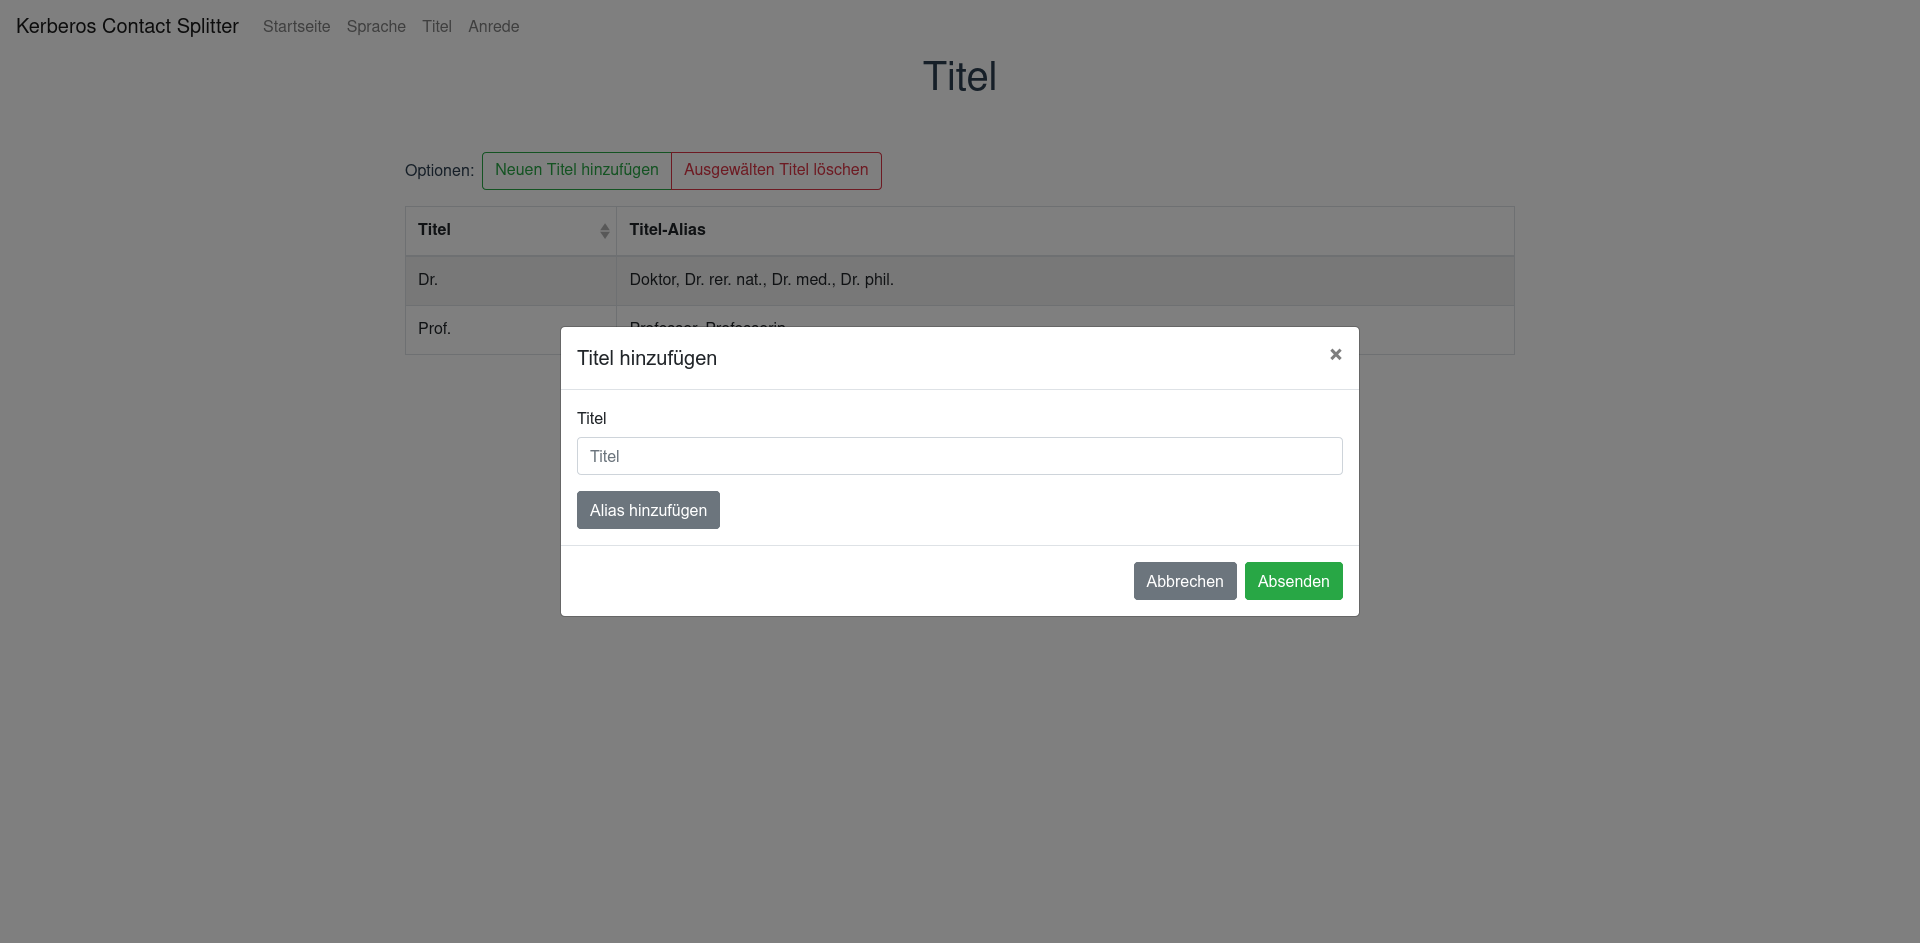
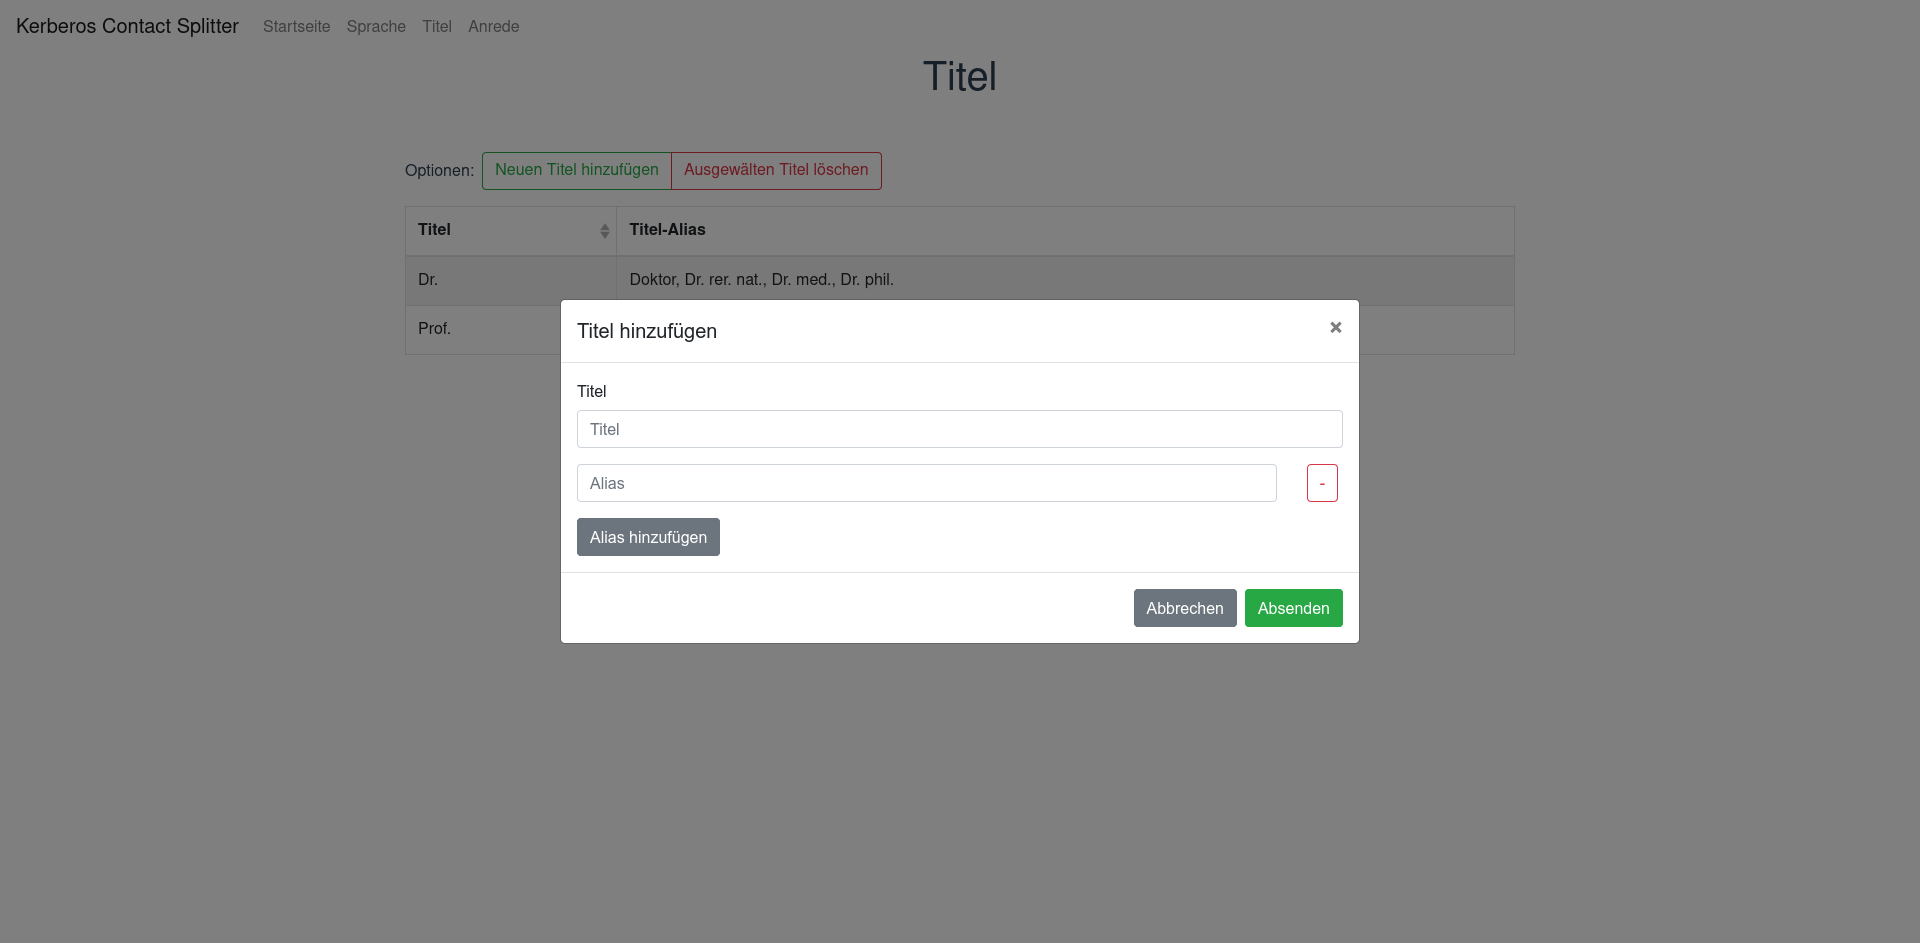
imporove doc/ReleaseNotes

Changed region(s): [[0.2812, 0.5843, 0.7188, 0.7073], [0.2812, 0.3075, 0.7188, 0.3998], [0.2812, 0.4305, 0.375, 0.6151]]

diff --git a/docs/ReleaseNotes.md b/docs/ReleaseNotes.md
@@ -35,7 +35,8 @@ Der\*die Nutzer\*in kann jeder Zeit einen Titel hinzufügen, der erkannt werden 
 
 ![Titelübersicht im Kerberos Client](./image/KerberosClient3_1.png)
 
-Über den Button `Neuen Titel hinzufügen` kann ein neuer Titel hinzugefügt werden. Hierbei kann ein `Titel` vergeben werden, dem eine beliebige Anzahl an `Aliases` (z.B. eine Abkürzung) hinzugefügt werden können.
+Über den Button `Neuen Titel hinzufügen` kann ein neuer Titel hinzugefügt werden. Hierbei kann ein `Titel` vergeben werden, dem eine beliebige Anzahl an `Alias` (z.B. eine Abkürzung) über den Button `Alias hinzufügen` hinzugefügt werden können. Über den Button `-` können diese dann wieder entfernt werden.
+Der `Titel` entspricht der generalisierten Kurzform, die auch bei der Ausgabe angezeigt wird.
 
 ![Titel im Kerberos Client hinzufügen](./image/KerberosClient3_2.png)
 
